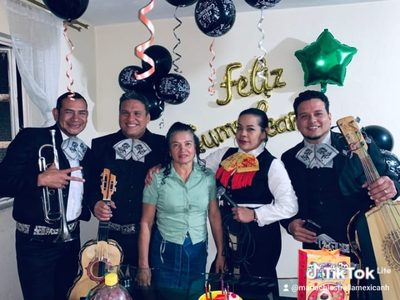
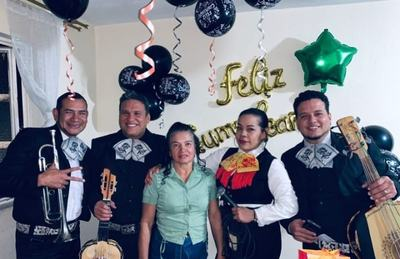
Quitar la marca de agua de TikTok de la foto de cumpleanos

diff --git a/docs/index.html b/docs/index.html
@@ -344,7 +344,7 @@
           <button type="button" class="gal-btn" data-full="/assets/img/serenata-cumpleanos-bogota.jpg" data-alt="Serenata de cumpleaños en Bogotá: el grupo junto a la homenajeada" aria-label="Ampliar: Serenata de cumpleaños en Bogotá: el grupo junto a la homenajeada">
             <picture>
               <source type="image/webp" srcset="/assets/img/serenata-cumpleanos-bogota-400.webp 400w, /assets/img/serenata-cumpleanos-bogota.webp 720w" sizes="(max-width:720px) 50vw, 300px">
-              <img src="/assets/img/serenata-cumpleanos-bogota-400.jpg" width="720" height="540" alt="Serenata de cumpleaños en Bogotá: el grupo junto a la homenajeada" loading="lazy" decoding="async">
+              <img src="/assets/img/serenata-cumpleanos-bogota-400.jpg" width="720" height="466" alt="Serenata de cumpleaños en Bogotá: el grupo junto a la homenajeada" loading="lazy" decoding="async">
             </picture>
           </button>
         </figure>

diff --git a/docs/ads-lp/index.html b/docs/ads-lp/index.html
@@ -250,7 +250,7 @@
         <button type="button" class="gal-btn" data-full="/assets/img/serenata-cumpleanos-bogota.jpg" data-alt="Serenata de cumpleaños en Bogotá junto a la homenajeada" aria-label="Ampliar: Serenata de cumpleaños en Bogotá junto a la homenajeada">
           <picture>
             <source type="image/webp" srcset="/assets/img/serenata-cumpleanos-bogota-400.webp 400w, /assets/img/serenata-cumpleanos-bogota.webp 720w" sizes="(max-width:720px) 50vw, 260px">
-            <img src="/assets/img/serenata-cumpleanos-bogota-400.jpg" width="720" height="540" alt="Serenata de cumpleaños en Bogotá junto a la homenajeada" loading="lazy" decoding="async">
+            <img src="/assets/img/serenata-cumpleanos-bogota-400.jpg" width="720" height="466" alt="Serenata de cumpleaños en Bogotá junto a la homenajeada" loading="lazy" decoding="async">
           </picture>
         </button>
       </figure>
